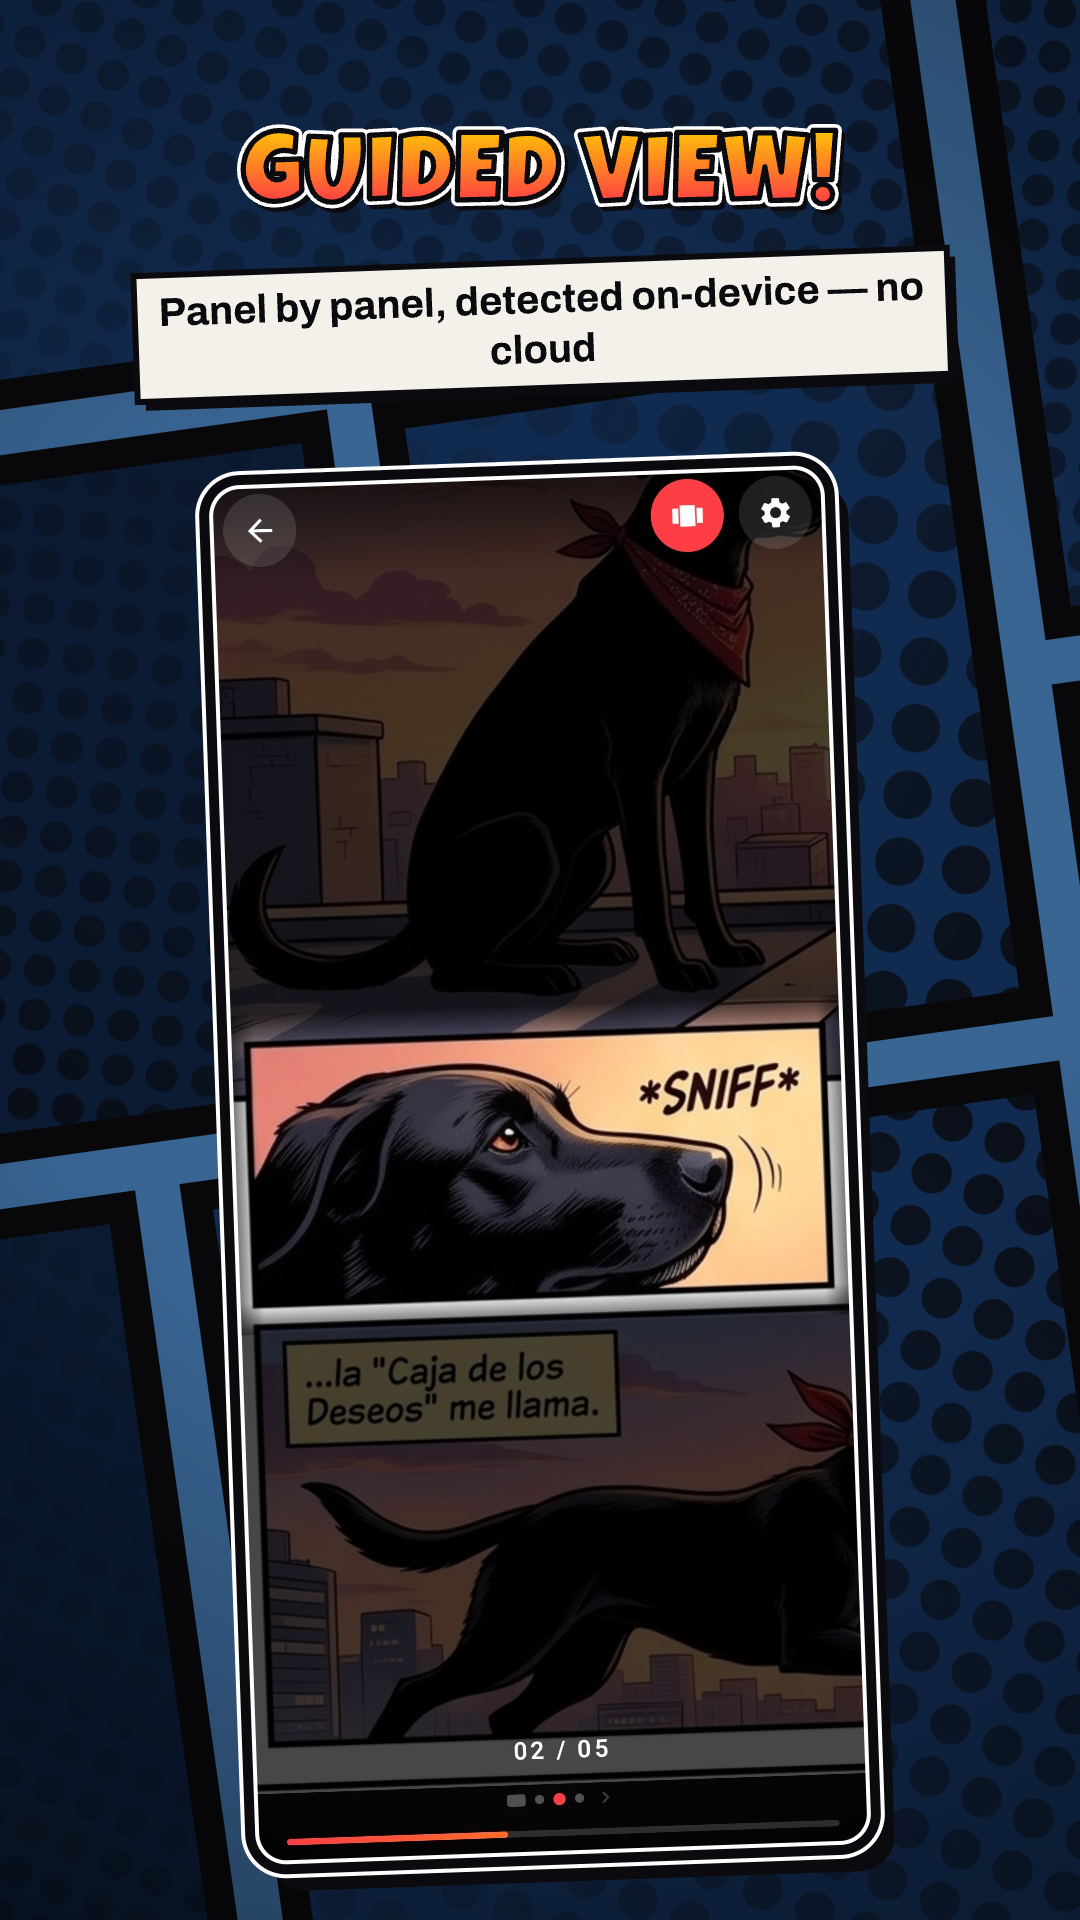
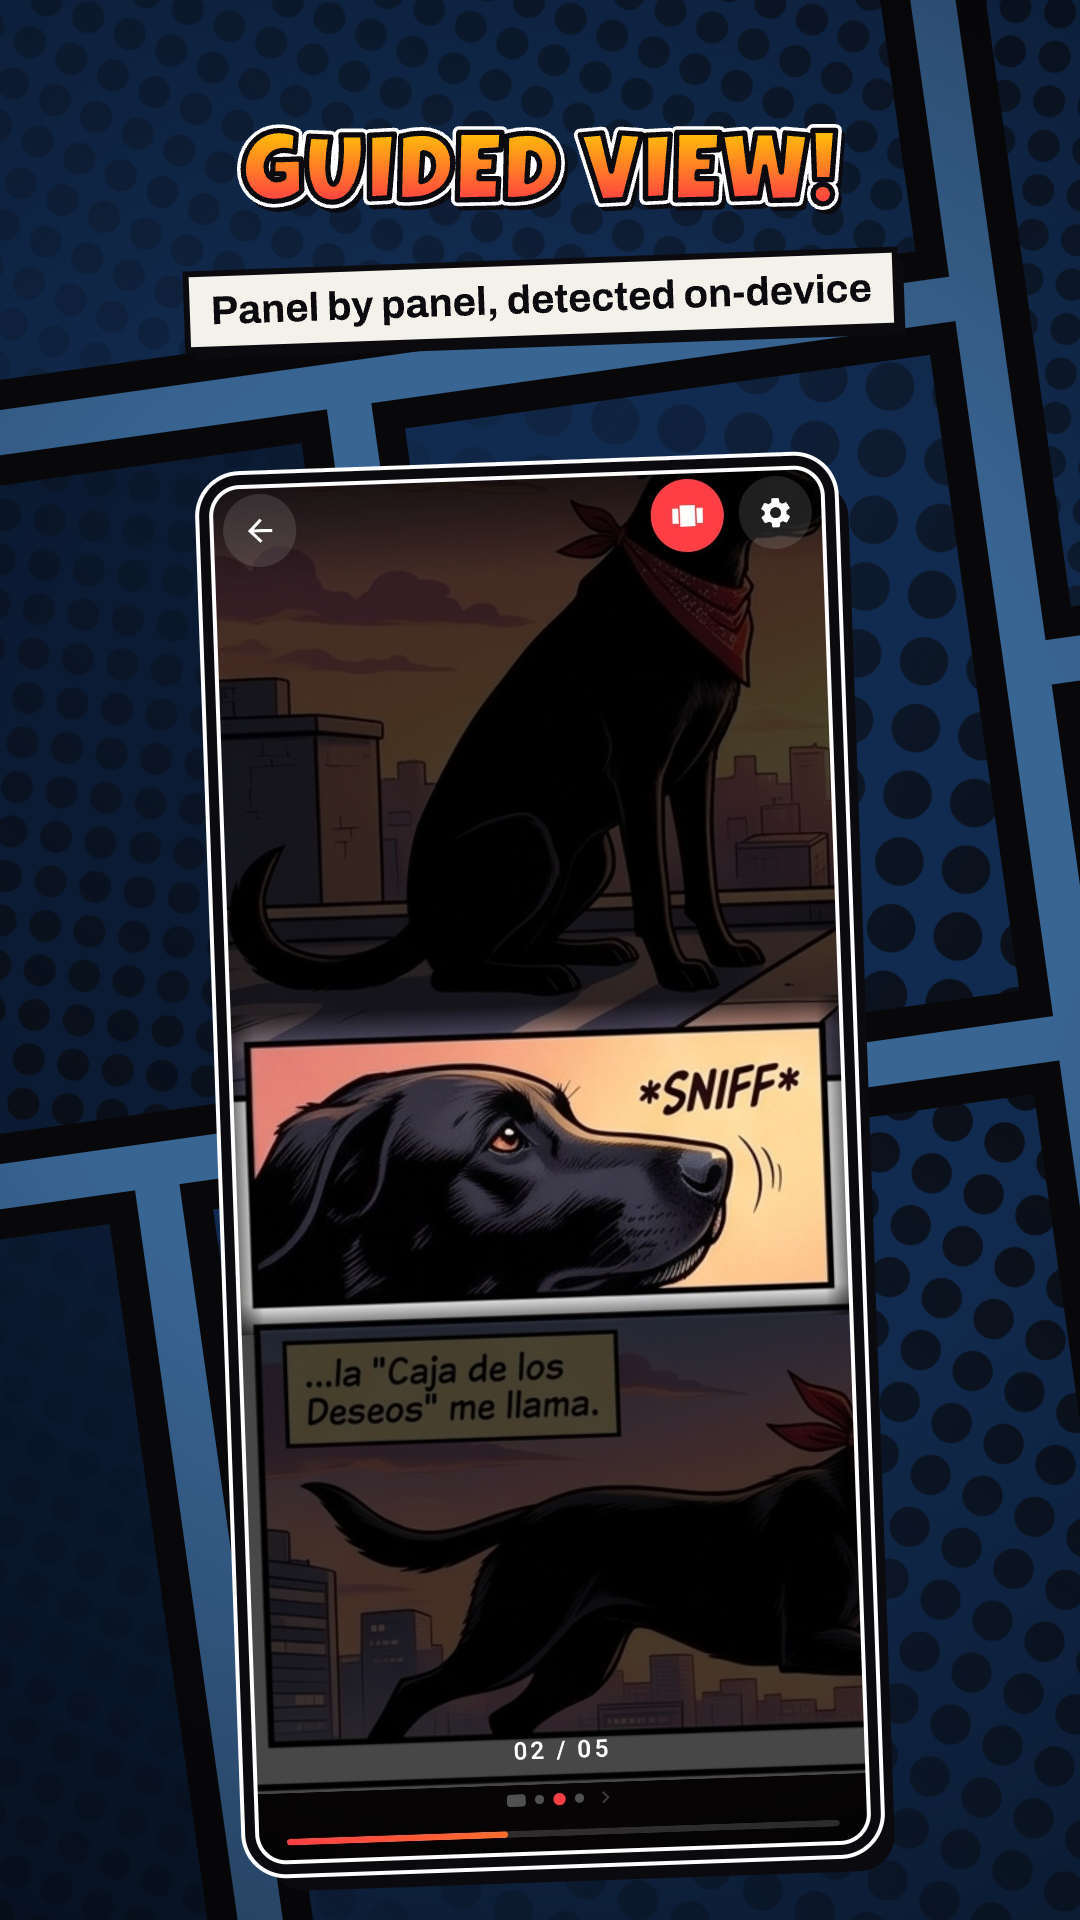
Drop the no-cloud tail from the Guided View store screenshot
Claude-Session: https://claude.ai/code/session_014XeJpzABRWZ7huQkFqWazA

Changed region(s): [[0.1222, 0.125, 0.8861, 0.2188]]

diff --git a/tools/store_assets/screenshots.py b/tools/store_assets/screenshots.py
@@ -27,8 +27,8 @@ SHOTS = [
                          "es-ES": ("SIGUE DONDE LO DEJASTE", "Progreso, ajustes por cómic y una portada que puedes tocar")}),
     ("phone", "reader", {"en-US": ("CLEAN READING", "Edge taps turn the page; the centre shows the controls"),
                          "es-ES": ("LECTURA LIMPIA", "Toca los bordes para pasar página; el centro muestra los controles")}),
-    ("phone", "guided", {"en-US": ("GUIDED VIEW!", "Panel by panel, detected on-device — no cloud"),
-                         "es-ES": ("¡GUIDED VIEW!", "Viñeta a viñeta, detectadas en el dispositivo — sin nube")}),
+    ("phone", "guided", {"en-US": ("GUIDED VIEW!", "Panel by panel, detected on-device"),
+                         "es-ES": ("¡GUIDED VIEW!", "Viñeta a viñeta, detectadas en el dispositivo")}),
     ("phone", "bubbles", {"en-US": ("BIGGER BUBBLES!", "Speech bubbles enlarged so you never squint again"),
                           "es-ES": ("¡BOCADILLOS XL!", "Bocadillos ampliados para no volver a entrecerrar los ojos")}),
     ("phone", "settings", {"en-US": ("YOUR LOOK", "Black, graphite or paper themes and seven accents"),
